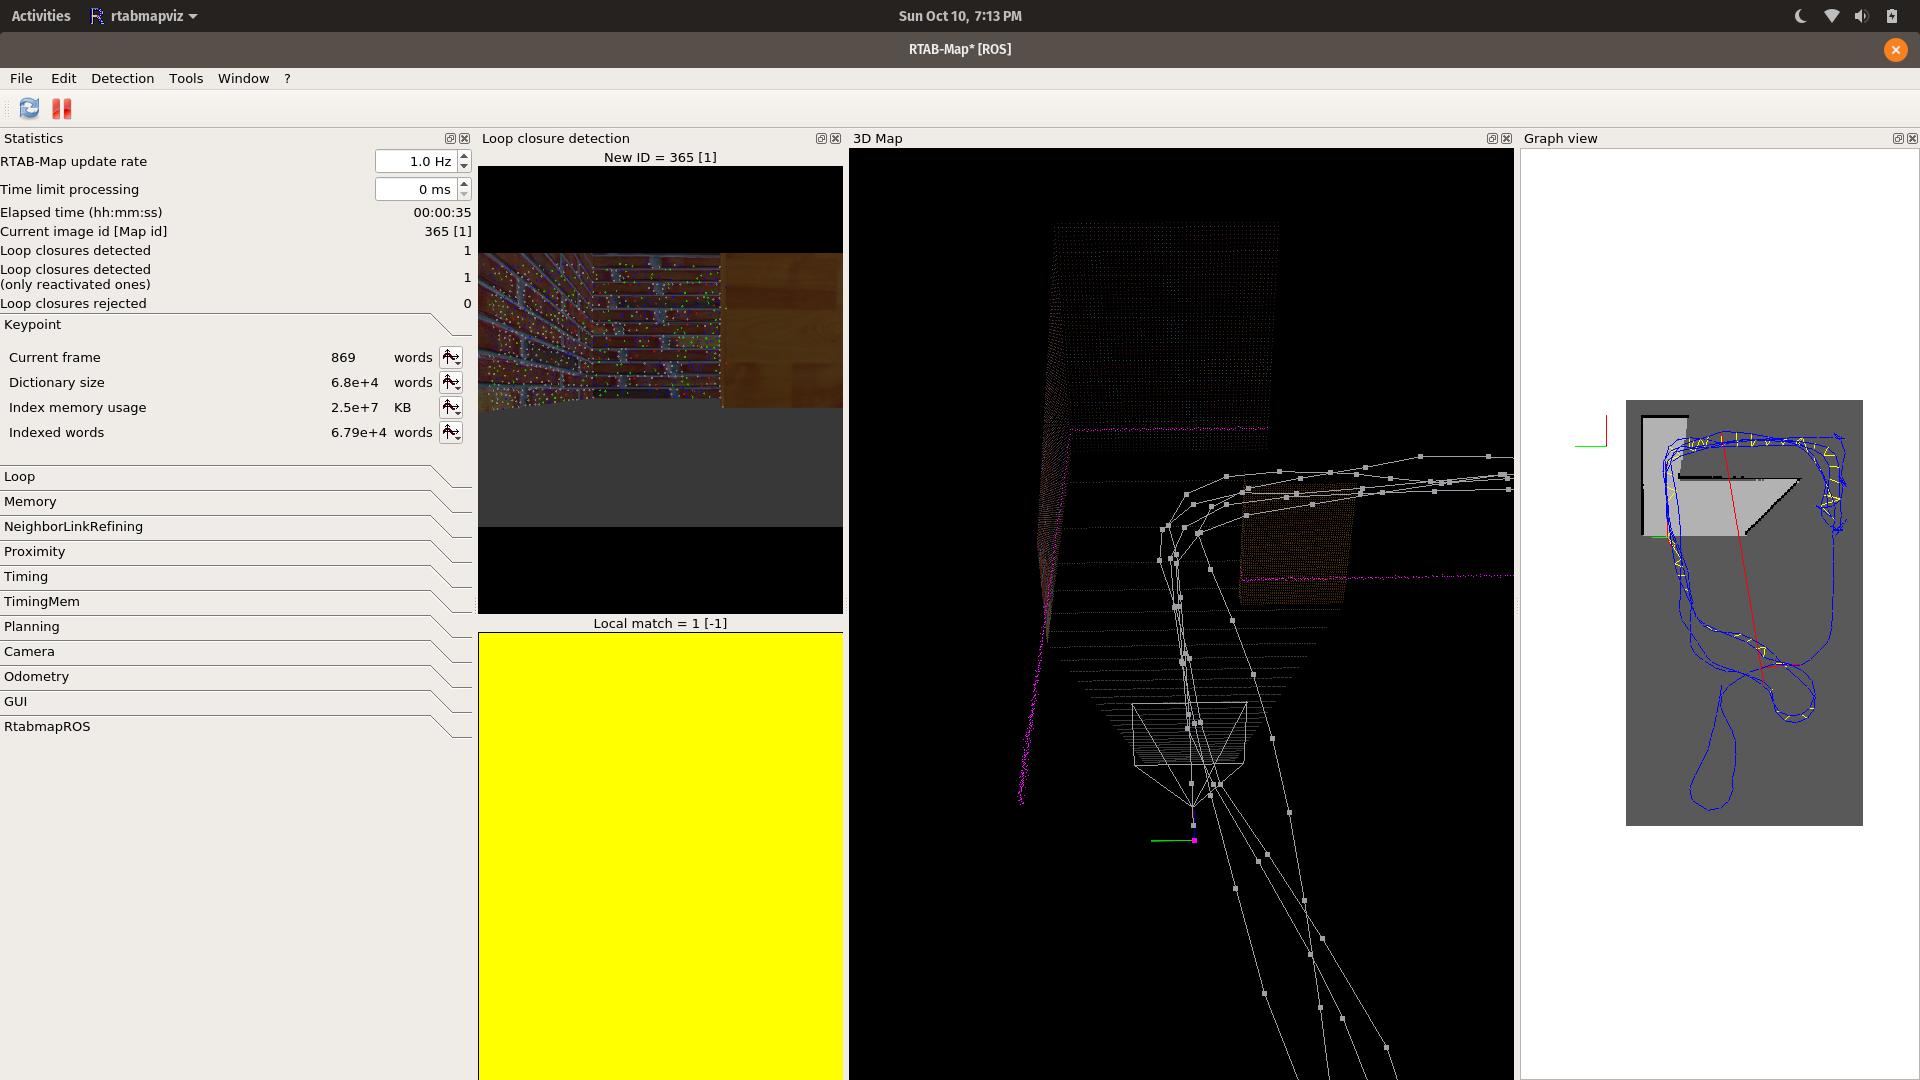
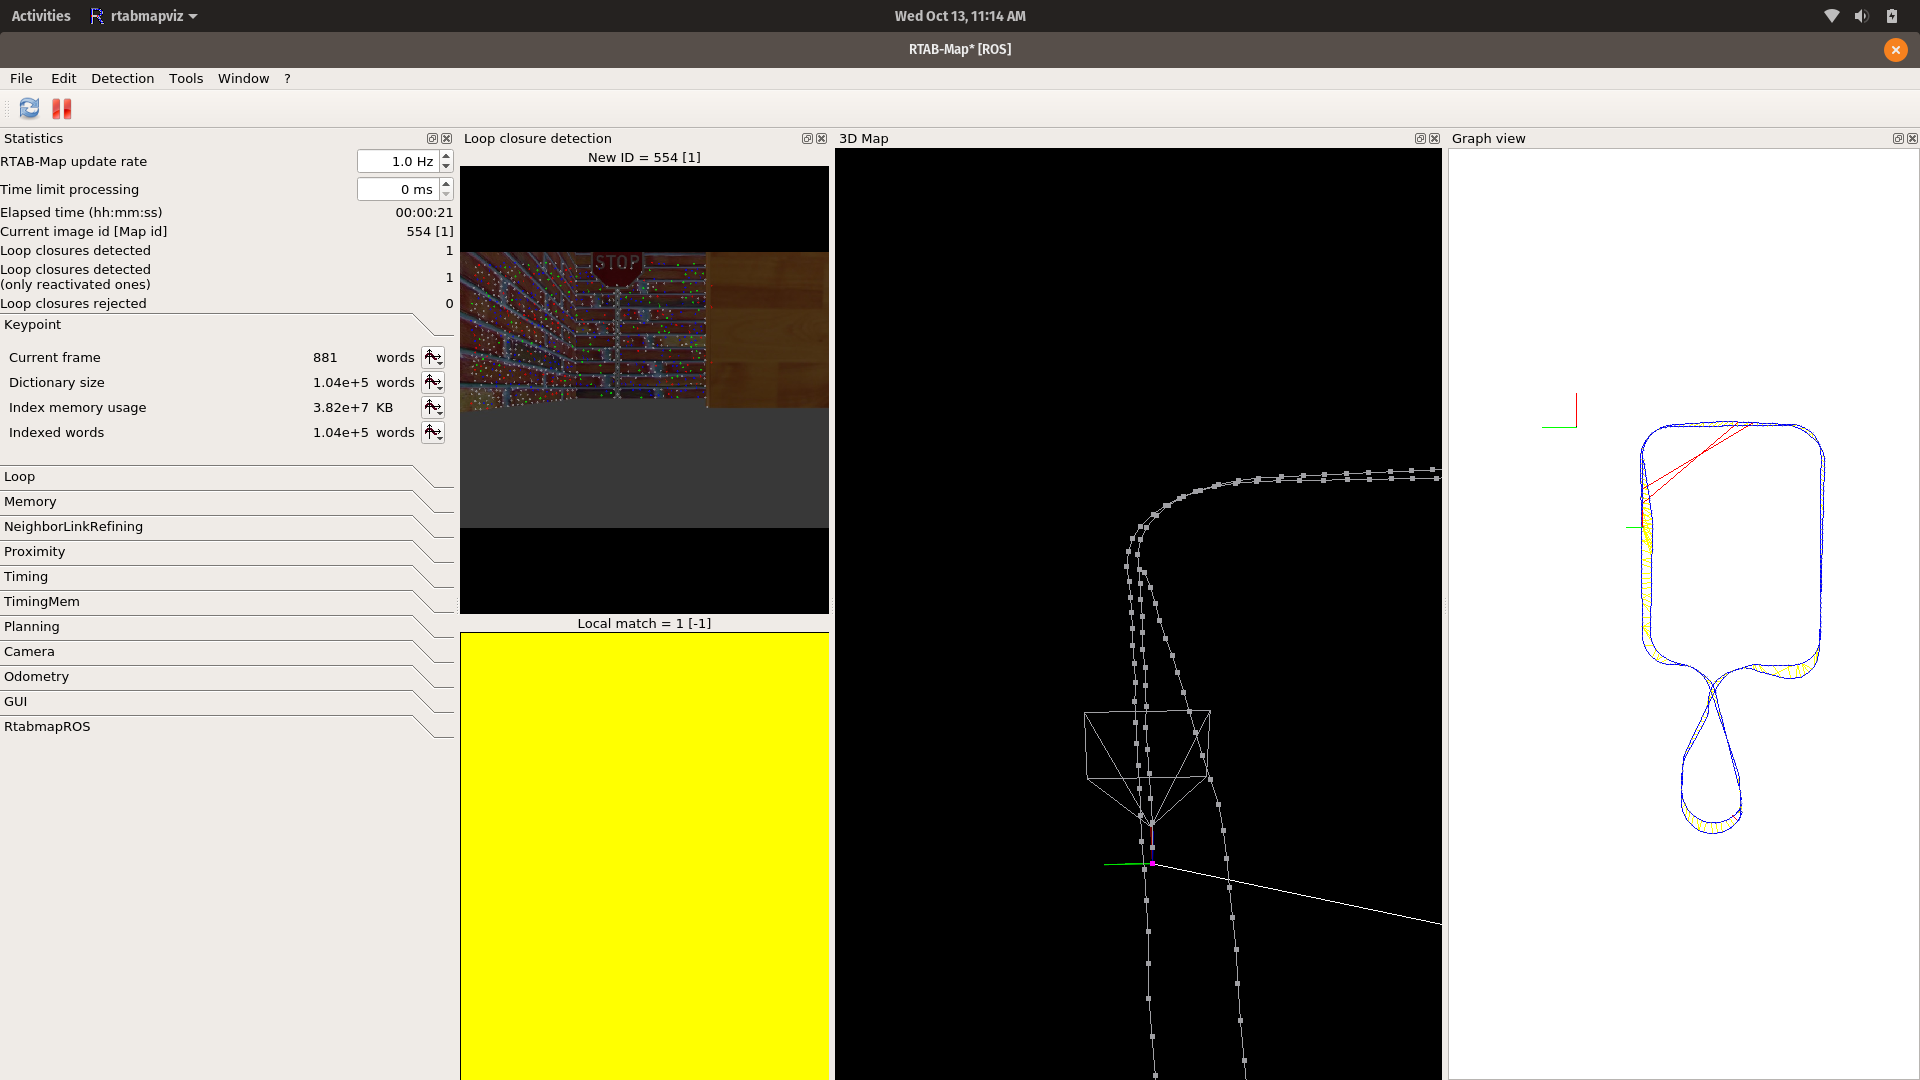
final update with adjusted params and updated README

diff --git a/README.md b/README.md
@@ -1,9 +1,13 @@
 # Udacity_RSEND_Project_4_Map_My_World
 
 [image1]: ./pictures/rtabmap_viz.png "Rtabmap visualization"
-[image2]: ./pictures/rtabmap_databaseviewer.png "Rtabmap visualization database viewer"
-[image3]: ./pictures/Rviz_localization.png "Rviz localization with Rtabmap"
+[image2]: ./pictures/rtabmap_databaseviewer_mapping.png "Rtabmap visualization database viewer"
+[image3]: ./pictures/rviz_localization.png "Rviz localization with Rtabmap"
 [image4]: ./pictures/Rtabmap_localization.png "Rtabmap localization"
+[image5]: ./pictures/rtabmap_databaseviewer_bad.png "Rtabmap database viewer bad map"
+[image6]: ./pictures/Rtabmap_database_viewer_3dmap_bad.png "3d Distorted map"
+[image7]: ./pictures/Rtabmap_databaseviewer_final.png "Rtabmap database viewer good map"
+[image8]: ./pictures/Rtabmap_databaseviewer_3dmap.png "3d Non Distorted map"
 
 
 ### Project Overview
@@ -58,8 +62,8 @@ After mapping has been done to a satisfactory level, one can view the saved data
 ## Example Running
 
 
-<img src="pictures/rviz_driving.gif?raw=true" width="720px">
-<img src="pictures/rtabmap_visualization.gif?raw=true" width="720px">
+<img src="pictures/rviz_mapping.gif?raw=true" width="720px">
+<img src="pictures/rtabmap_mapping.gif?raw=true" width="720px">
 
 
 # Localization
@@ -70,7 +74,7 @@ After using `rtabmap` to generate a map of the environment the results can be fe
 ### Rtabmap Database Download
 For this map a Rtabmap database has been generated by driving the robot around the environment with the `mapping.launch` node running.  This can be downloaded
 ```
-https://drive.google.com/file/d/10AqoGJKJ3nOCwi2MJNzMR_ZPSb_lwFXv/view?usp=sharing
+https://drive.google.com/file/d/1468Ah1_e0PzqzaqfsB7qnLc4Lt_7Hlj2/view?usp=sharing
 ```
 Make sure the `mapping.launch` process is closed from above and that the `rtabmap.db` is located in the appropiate directory `/home/<hostname>/.ros/` and named `rtabmap.db`
 
@@ -85,15 +89,36 @@ roslaunch mapping localization.launch
 ![alt text][image3]
 ![alt text][image4]
 
-<img src="pictures/Rviz_localization_map.gif?raw=true" width="720px">
-<img src="pictures/Rtabmap_localization_map.gif?raw=true" width="720px">
+<img src="pictures/Rviz_localization.gif?raw=true" width="720px">
+<img src="pictures/Rtabmap_localization.gif?raw=true" width="720px">
 
 
 
-# Notes:
+# Notes and Learnings
+
+
+I had a lot of problems with map distortion during this project.  To resolve this the following was done:
+1. Corrected the `wheelSeparation` value in `my_robot.gazebo` file so the odometry values were accurate
+2. Slowed the robot down in the Teleop console, I found linear speed < 0.2 and angular speed < 0.2 worked well
+3. Added unique items to my map.  Originally the map was bland and had very few unique features.  In each section of the map I added a unique feature (fire hydrant, stop sign, cube, sphere, etc...) for detection.
+4. Added a Rtabmap param to help with filtering overtime as my setup experienced some drift and for larger environments this appears to help with multiple passes`<param name="Optimizer/Robust" type="string" value="true"/>`
+
+With all of these added the occupency grid was able to be accurately generated with an accurate map as well (very little to none artifacts)
+Bad map with distortion
+![alt text][image5]
+![alt text][image6]
+
+Good map utilizing above settings
+![alt text][image7]
+![alt text][image8]
+
+
+
+
+One key thing to note is with the rtabmap database viewer one can filter the mapped data and improve it's accuracy/remove noise.  This option can further be used to refine the map.
+
 
 One key thing is to realize that `rtabmap` is utilizing a generic base_footprint for the frame_ids.  Changing the URDF or changing in the launch file is required to get the proper data from the topics.
-
 
 Otherwise this error will occur where the data is not piped to the proper end topics during remapping.
 
